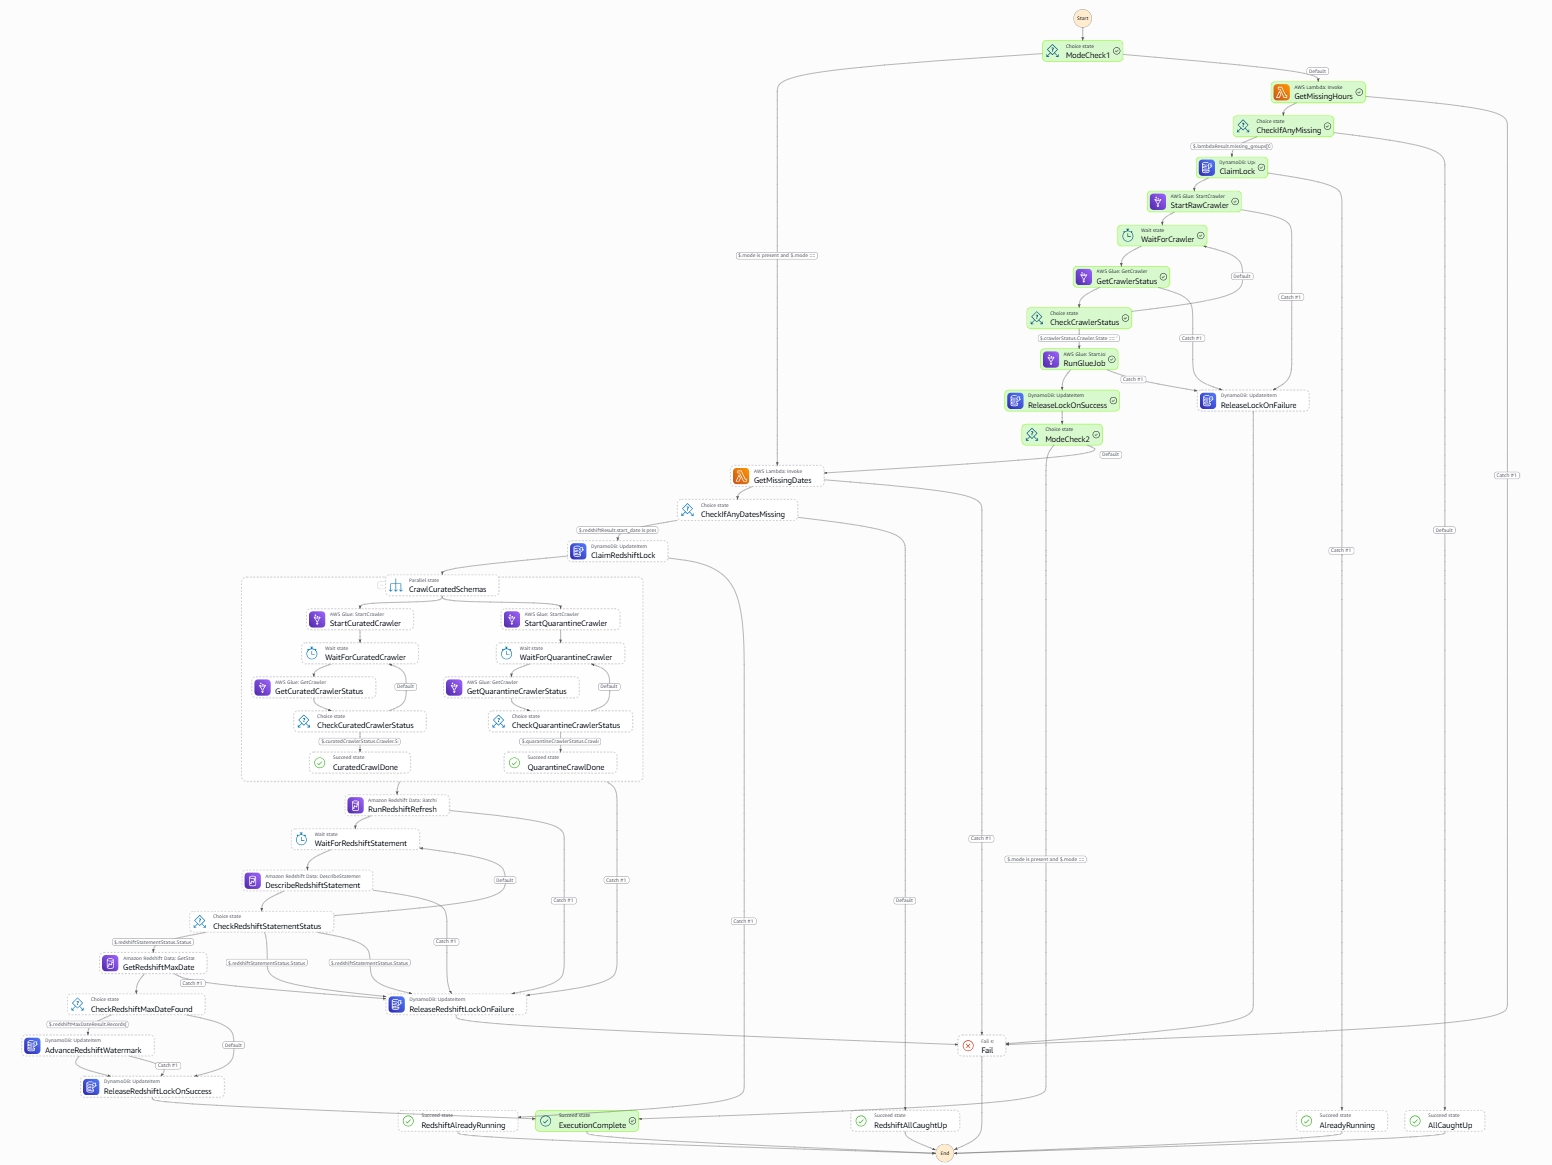
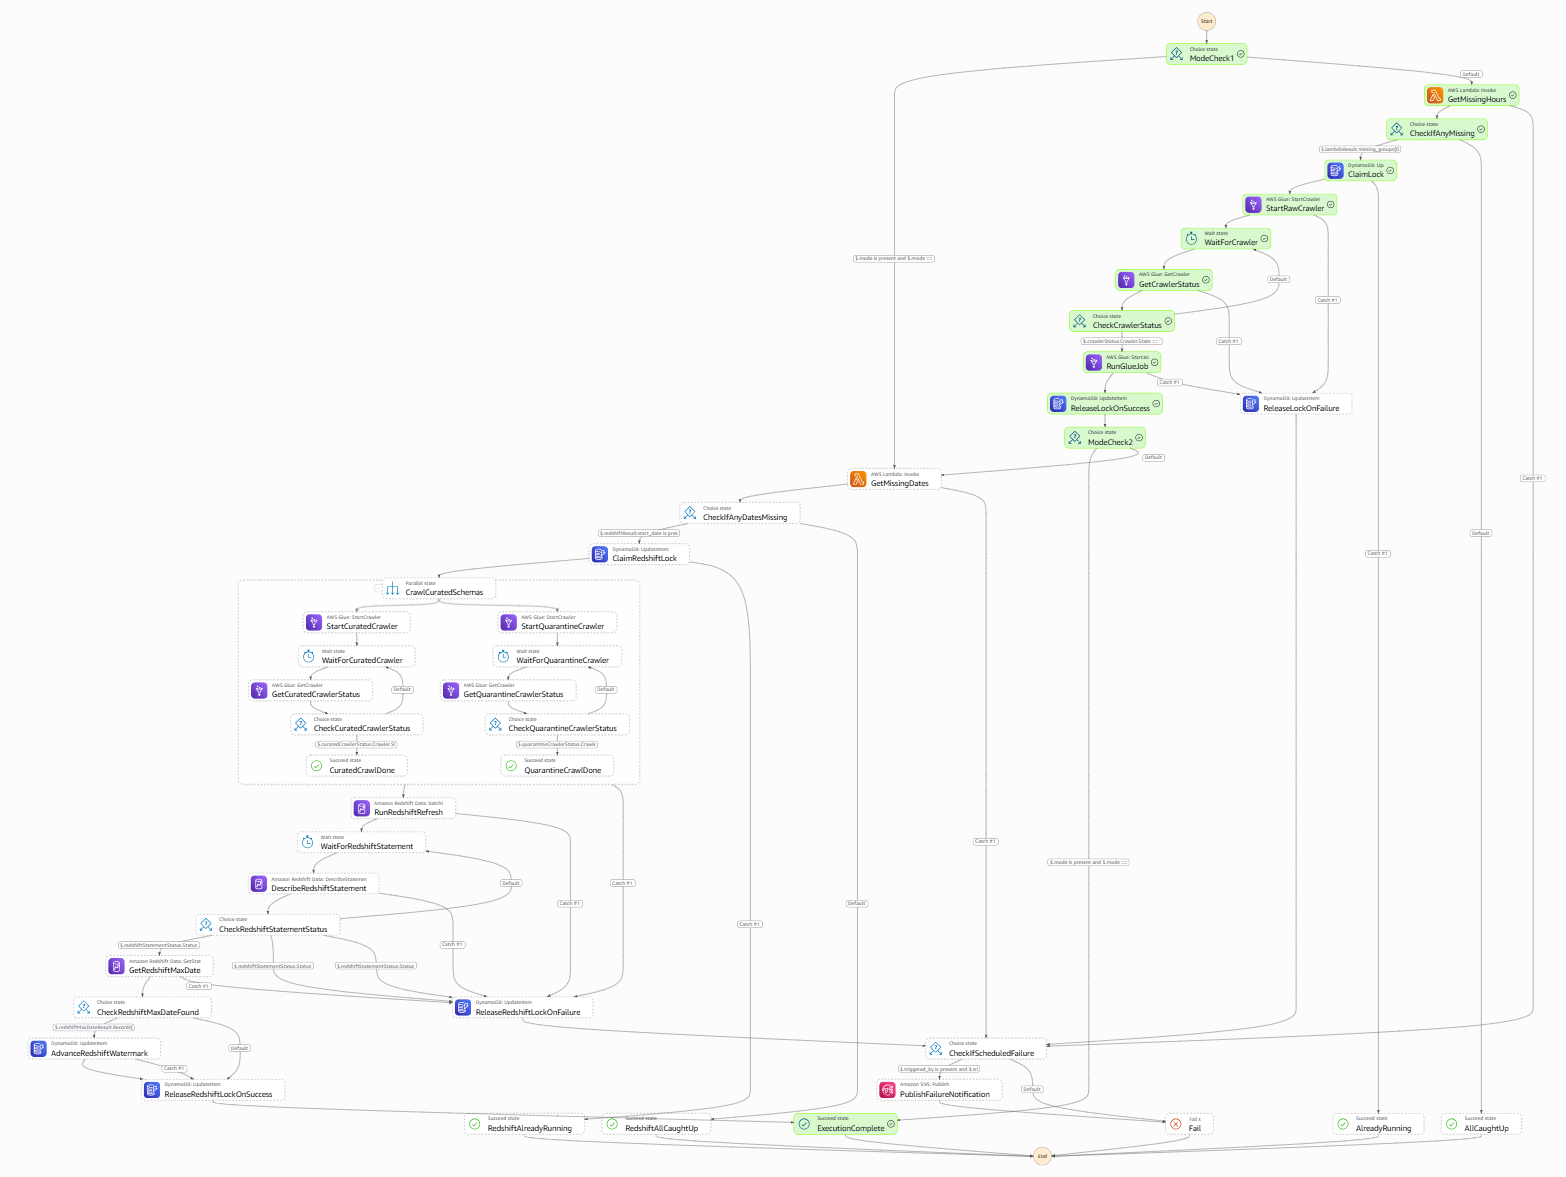
add pipeline failure notifications via SNS: a shared gate checks triggered_by=schedule before emailing, so real scheduled failures alert while manual test failures stay silent -- verified live with both cases (real email received/not received), plus a combined idempotency + multi-date forward-progre

diff --git a/docs/architecture-flow.md b/docs/architecture-flow.md
@@ -2,7 +2,7 @@
 
 The complete, state-by-state orchestration logic — every real state in `state_machines/sensor_etl.asl.json`, exactly as it exists in the deployed state machine. For the underlying data flow and component roles, see [`architecture.md`](architecture.md); for *why* things are built this way, see [`design-choices.md`](design-choices.md).
 
-31 top-level states in total (38 including the `Parallel` state's own internal branches).
+33 top-level states in total (40 including the `Parallel` state's own internal branches).
 
 ## The `mode` parameter
 
@@ -14,7 +14,7 @@ Every execution starts by evaluating `mode`, an optional field in the execution 
 | `"glue_only"` | Only `sensor_etl` — ends right after its lock releases |
 | `"redshift_only"` | Only `redshift_refresh` — skips `sensor_etl` entirely from the very first state |
 
-Both mode-check states use `And[mode IsPresent, mode==X]`, not a bare string comparison — a `Choice` state's `StringEquals` throws an uncatchable error if the field doesn't exist at all, which is exactly the shape of the real scheduler's trigger. This was a real bug caught via testing, not a defensive habit from the start.
+Both mode-check states use `And[mode IsPresent, mode==X]`, not a bare string comparison — a `Choice` state's `StringEquals` throws an uncatchable error if the field doesn't exist at all, which is exactly the shape of the real scheduler's trigger. This was a real bug caught via testing, not a defensive habit from the start. The same pattern is reused for `triggered_by`, below.
 
 ## The `backfill` parameter
 
@@ -25,6 +25,22 @@ Orthogonal to `mode` — a top-level sibling field, not nested inside it:
 ```
 
 Both `GetMissingHours` and `GetMissingDates` check for `backfill` first, before touching DynamoDB at all. When present, it bypasses the watermark-driven calendar math entirely and returns exactly the requested range — but the *same* forward-only guard downstream still decides whether either watermark actually advances, independent of what was requested. Two validation checks run before anything else: a reversed range (`end_date` before `start_date`) is rejected immediately, and any range spanning more than 90 days is rejected as a likely typo — both raise a clear error rather than silently proceeding.
+
+## The `triggered_by` parameter
+
+Also a top-level, optional field — but unlike `mode`/`backfill`, it's never read while an execution is doing real work. It's checked exactly once, only if an execution *fails*, to decide whether the failure is worth emailing about:
+
+```json
+{"mode": "full", "triggered_by": "schedule"}
+```
+
+Only the real EventBridge daily trigger sends this — confirmed directly against the live resource:
+```bash
+aws scheduler get-schedule --name pulsegrid-dev-sensor-etl-daily --query "Target.Input" --output text
+# {"mode":"full","triggered_by":"schedule"}
+```
+
+A manually-started execution (console or CLI) never includes it, so a manual test's failure stays silent by default — the same `And[IsPresent, StringEquals]` pattern as `ModeCheck1`/`ModeCheck2` decides this. Full mechanism, design rationale, and a real example: see [Failure notifications](#failure-notifications) below.
 
 ## Top-level flow
 
@@ -46,7 +62,7 @@ graph TD
 ```mermaid
 graph TD
     GMH[GetMissingHours] --> CIM{CheckIfAnyMissing}
-    GMH -.any failure.-> FAIL([Fail])
+    GMH -.any failure.-> CSF
     CIM -->|missing_groups empty| AC([AllCaughtUp])
     CIM -->|missing_groups0 present| CL[ClaimLock]
     CL -->|ConditionalCheckFailedException| AR([AlreadyRunning])
@@ -62,25 +78,28 @@ graph TD
     SRC -.any failure.-> RLF[ReleaseLockOnFailure]
     GCS -.any failure.-> RLF
     RGJ -.any failure.-> RLF
-    RLF --> FAIL
+    RLF --> CSF{CheckIfScheduledFailure}
+    CSF -->|triggered_by=schedule| PFN[PublishFailureNotification]
+    CSF -->|absent, or any other value| FAIL([Fail])
+    PFN --> FAIL
 ```
 
 ![A real mode=glue_only execution, fully successful end to end](images/architecture-flow-glue-section.png)
 *A real `mode=glue_only` execution — confirmed via the execution's own recorded input, not inferred from the graph.*
 
 Notes on specific states:
-- **`GetMissingHours`'s own failure** routes straight to `Fail`, never through `ReleaseLockOnFailure` — at that point in the flow, no lock has been claimed yet, so there's nothing to release. This is the same principle behind claiming the lock only once real work is confirmed, applied consistently to failure handling too.
+- **`GetMissingHours`'s own failure** routes to `CheckIfScheduledFailure` directly, never through `ReleaseLockOnFailure` — at that point in the flow, no lock has been claimed yet, so there's nothing to release. This is the same principle behind claiming the lock only once real work is confirmed, applied consistently to failure handling too.
 - **`ClaimLock`'s catch is deliberately narrow** — only `DynamoDB.ConditionalCheckFailedException`, not `States.ALL` like every other catch in this section. A genuine lock conflict routes to `AlreadyRunning`; any other failure at this state propagates unhandled, since a failed claim means nothing was ever actually acquired to release.
 - **`RunGlueJob`** carries its own `Retry` for `Glue.ConcurrentRunsExceededException` (3 attempts, 60s interval, 2.0 backoff) — a real, tested resilience mechanism for the case where a previous execution's Glue job is still finishing as a new one starts.
 - **`RunGlueJob`** passes the *whole* `missing_groups` array as one `--date_groups` argument — one Spark session handles every date in the batch, not one job run per date.
-- **`ReleaseLockOnFailure`** is reachable from three different states' `Catch` blocks, all converging on the same release-then-fail path — a lock is never left stuck regardless of which specific state fails.
+- **`CheckIfScheduledFailure`** is a single, shared gate — reached from both this section's failures *and* `redshift_refresh`'s (below).
 
 ## `redshift_refresh` section — full detail
 
 ```mermaid
 graph TD
     GMD[GetMissingDates] --> CIDM{CheckIfAnyDatesMissing}
-    GMD -.any failure.-> FAIL2([Fail])
+    GMD -.any failure.-> CSF2
     CIDM -->|no start_date| RAC([RedshiftAllCaughtUp])
     CIDM -->|start_date present| CRL[ClaimRedshiftLock]
     CRL -->|ConditionalCheckFailedException| RAR([RedshiftAlreadyRunning])
@@ -118,7 +137,10 @@ graph TD
     SQC -.any failure.-> RRLF
     RRR -.any failure.-> RRLF
     DRS -.any failure.-> RRLF
-    RRLF --> FAIL2
+    RRLF --> CSF2{CheckIfScheduledFailure}
+    CSF2 -->|triggered_by=schedule| PFN2[PublishFailureNotification]
+    CSF2 -->|absent, or any other value| FAIL2([Fail])
+    PFN2 --> FAIL2
 ```
 
 ![A real mode=redshift_only execution, fully successful end to end, including a genuine watermark advance](images/architecture-flow-redshift-section.png)
@@ -130,11 +152,35 @@ Notes on specific states:
 - **`GetRedshiftMaxDate`** reads the 11th statement's own sub-result via `SubStatements[10].Id` — `BatchExecuteStatement`'s parent ID can't retrieve results directly; each statement in the batch gets its own sub-statement ID.
 - **`CheckRedshiftMaxDateFound`** exists because `MAX(dt)` over zero matched rows returns SQL `NULL`, represented as `{"IsNull": true}` rather than an empty `StringValue` — checking for the key's presence correctly distinguishes a real date from this case.
 - **`AdvanceRedshiftWatermark`**'s `Catch` deliberately routes to `ReleaseRedshiftLockOnSuccess`, not `...OnFailure` — a regression-guard block (`ConditionalCheckFailedException`) is expected, correct behavior, never treated as a pipeline failure.
+- **`CheckIfScheduledFailure`/`PublishFailureNotification`** here (labeled `CSF2`/`PFN2` in the diagram above purely to avoid a naming clash within this one Mermaid code block) are the **same shared states** shown in the `sensor_etl` section's diagram — not a second copy. Both sections' failures converge on one gate.
 
 ## Poll-loop pattern, used three times
 
 The raw crawler, each of the two crawlers inside `CrawlCuratedSchemas`, and the Redshift statement check all use the identical shape: `Wait` → check status → `Choice` routing back to the same `Wait` state if not yet done. The Redshift version adds explicit `FAILED`/`ABORTED` branches — without them, a genuinely failed statement would loop on `Wait` forever, since only checking for the success status and treating everything else as "still running" doesn't account for terminal failure states.
 
+## Failure notifications
+
+Every failure route in both sections converges on one shared gate, `CheckIfScheduledFailure` (see [the `triggered_by` parameter](#the-triggered_by-parameter) above for the input field itself). This section covers the mechanism's internal design.
+
+**Why the notification message dumps the whole state via `States.JsonToString($)`, instead of referencing `$.error` directly:** `$.error` isn't guaranteed present on every path reaching this gate. `CheckRedshiftStatementStatus`'s `FAILED`/`ABORTED` branches route straight to `ReleaseRedshiftLockOnFailure` without ever passing through a `Catch` block — meaning no `$.error` gets populated in that specific case. Referencing an absent field directly would trip the exact same uncatchable-error class the `IsPresent` guards elsewhere in this file exist to prevent. Dumping the entire state sidesteps the question of what's present and gives strictly more debugging context, not less.
+
+A real example, from actual testing — a deliberately reversed `backfill` range, triggered with `triggered_by=schedule`:
+
+```
+Subject: PulseGrid pipeline failure
+
+PulseGrid scheduled execution failed.
+
+Execution: d8812599-a4d8-49b3-a66c-592df6604fe3
+
+Full state at failure:
+{"mode":"glue_only","triggered_by":"schedule","backfill":{"start_date":"2026-06-05","end_date":"2026-06-01"},"error":{"Error":"ValueError","Cause":"{\"errorMessage\":\"backfill end_date (2026-06-01) is before start_date (2026-06-05)\",\"errorType\":\"ValueError\", ...}}
+```
+
+The identical failure triggered without `triggered_by` produces no email at all — confirmed via the same test, run twice.
+
 ## Lock release is always unconditional, on every path
 
-Every route to `Fail` — in both sections — passes through a release state first (`ReleaseLockOnFailure` / `ReleaseRedshiftLockOnFailure`), *except* when the failure happens before any lock was ever claimed (`GetMissingHours`/`GetMissingDates`'s own failures, which route straight to `Fail`). Both release states also carry their own `Retry` block, specifically so a transient failure in the *release call itself* can't leave a lock permanently stuck — the one failure mode that would otherwise block every future execution indefinitely.
+Every failure — in both sections — passes through a release state first (`ReleaseLockOnFailure` / `ReleaseRedshiftLockOnFailure`), *except* when the failure happens before any lock was ever claimed (`GetMissingHours`/`GetMissingDates`'s own failures, which route straight to `CheckIfScheduledFailure`). Both release states also carry their own `Retry` block, specifically so a transient failure in the *release call itself* can't leave a lock permanently stuck.
+
+The notification gate sits strictly *after* both release states — never before, never instead of them. This is what makes the notification feature safe by construction: even a mistake in its own logic can't reintroduce a stuck lock, because by the time any execution reaches `CheckIfScheduledFailure`, its lock (if it ever held one) has already been safely released.

diff --git a/docs/setup.md b/docs/setup.md
@@ -8,6 +8,7 @@ One-time deployment instructions — getting from a fresh clone to a genuinely w
 - [Terraform](https://developer.hashicorp.com/terraform/downloads) — this project pins the AWS provider to `~> 5.0`
 - Python 3.10+
 - An AWS region — this project defaults to `ap-south-1` (`terraform/variables.tf`); change it there if you'd rather deploy elsewhere
+- An email address you can access, for pipeline failure notifications
 
 ## 1. Create a deploy IAM user
 
@@ -16,7 +17,7 @@ This project doesn't use one broad admin policy — the actual deploy permission
 - `pulsegrid-deploy-core` — S3, IAM role management, `PassRole` scoped to this project's own roles
 - `pulsegrid-deploy-analytics` — Glue, Athena
 - `pulsegrid-deploy-infra` — Redshift Serverless, its networking
-- `pulsegrid-deploy-orchestration` — DynamoDB, Lambda, Step Functions, Scheduler, Secrets Manager, Redshift Data API
+- `pulsegrid-deploy-orchestration` — DynamoDB, Lambda, Step Functions, Scheduler, Secrets Manager, Redshift Data API, SNS
 
 Create the user, attach all 4 policies, generate an access key, then:
 
@@ -37,11 +38,10 @@ Create `terraform/terraform.tfvars` — **never commit this file**, it's already
 ```hcl
 redshift_admin_password       = "<choose a real password>"
 redshift_refresh_svc_password = "<choose a different real password>"
+alert_email                   = "<your real email address>"
 ```
 
 **If you're deploying this to your own AWS account, not just reading it:** S3 bucket names are globally unique across *all* of AWS, not just your account. This project's buckets are named from `project_name`+`environment` (e.g. `pulsegrid-dev-raw`) — since the original names are already taken, you'll need to change `project_name` in `terraform/variables.tf` to something unique to you before `apply` will succeed.
-
-**Every resource name shown anywhere in this documentation set — bucket names, the DynamoDB table, Lambda function names, SQL examples — uses the default `project_name=pulsegrid`, `environment=dev`.** If you changed `project_name`, mentally substitute your own value everywhere you see `pulsegrid` in a command or resource name, in every doc, not just this one.
 
 ## 3. Before you apply — a real sequencing warning
 
@@ -60,9 +60,21 @@ terraform plan
 terraform apply
 ```
 
-This creates everything Terraform manages: S3 buckets, Glue crawlers and the ETL job, the Redshift Serverless namespace/workgroup, DynamoDB, all 3 Lambdas, the Step Functions state machine, Secrets Manager, and both EventBridge schedules.
+This creates everything Terraform manages: S3 buckets, Glue crawlers and the ETL job, the Redshift Serverless namespace/workgroup, DynamoDB, all 3 Lambdas, the Step Functions state machine, Secrets Manager, an SNS topic for failure alerts, and both EventBridge schedules.
 
-## 5. Manual Redshift setup — not Terraform-managed
+## 5. Confirm the SNS email subscription — a manual step Terraform can't finish for you
+
+Terraform can *request* the email subscription, but AWS requires a human to click the confirmation link that gets emailed — this can't be automated. Check the inbox for `alert_email` (including spam — this is the single most common place it ends up) for an email from AWS Notifications, and click **Confirm subscription**.
+
+Verify it actually took, rather than trust the click alone:
+
+```bash
+aws sns list-subscriptions-by-topic --topic-arn <topic-arn-from-terraform-output>
+```
+
+`"SubscriptionArn": "PendingConfirmation"` means it's still unconfirmed. A real ARN in that field means it's genuinely active.
+
+## 6. Manual Redshift setup — not Terraform-managed
 
 Three things Terraform deliberately doesn't own, since they're database-internal objects, not AWS resources. Run these in order, in Redshift Query Editor v2, connected as the admin user:
 
@@ -85,10 +97,11 @@ GRANT SELECT, INSERT, DELETE ON
 
 This step is easy to miss entirely, since `terraform apply` succeeding gives no indication it's still required — but without it, `redshift_refresh` will fail on its very first real run (or every scheduled run, if you skipped the warning in step 3).
 
-## 6. Confirm the deployment
+## 7. Confirm the deployment
 
 - `terraform apply` completed with no errors
 - The 5 KPI tables exist and are queryable (even empty) in Redshift
 - `aws lambda invoke --function-name <project>-<env>-generate-hourly output.json` runs successfully and writes a real file to the `raw` bucket
 - `pip install -e ".[dev]" && pytest tests/ -v` passes locally (21 tests)
+- The SNS subscription shows a real ARN, not `PendingConfirmation` (step 5)
 - If you disabled the schedules in step 3, re-enable both now (`state = "ENABLED"`, `terraform apply` again)

diff --git a/docs/architecture.md b/docs/architecture.md
@@ -36,7 +36,7 @@ The complete inventory of every AWS component in PulseGrid, what it does, and ho
 
 | Component | Role |
 |---|---|
-| Step Functions state machine | One combined definition covering both `sensor_etl` and `redshift_refresh`, gated by a `mode` parameter and an independent `backfill` parameter. |
+| Step Functions state machine | One combined definition covering both `sensor_etl` and `redshift_refresh`, gated by a `mode` parameter and an independent `backfill` parameter. Every failure path converges on a shared gate that emails a failure notification, but only for the real scheduled trigger — see [`architecture-flow.md`](architecture-flow.md#failure-notifications). |
 | EventBridge Scheduler — `generate_hourly` | Fires hourly, on the hour (`cron(0 * * * ? *)`, UTC). |
 | EventBridge Scheduler — `sensor_etl_daily` | Fires daily at `00:30 UTC` — 30 minutes after `generate_hourly`'s midnight run closes out the previous day, so a full day is always ready. Drives the *entire* combined state machine (both pipeline sections) via `mode=full`. |
 
@@ -51,6 +51,7 @@ The complete inventory of every AWS component in PulseGrid, what it does, and ho
 | Component | Role |
 |---|---|
 | Secrets Manager secret | Holds `redshift_refresh_svc`'s database credentials for the Redshift Data API. |
+| SNS topic | One topic, one email subscription, for pipeline failure notifications. Requires a one-time manual confirmation click after deployment — see [`setup.md`](setup.md). |
 | IAM roles (one per component) | Every Lambda, the Glue job, and the state machine's own execution role each get a distinct, narrowly-scoped role — see [Security model](#security-model) below. |
 
 ### Analytics (verification tool, not part of the live pipeline)
@@ -136,4 +137,4 @@ Single table, `pipeline_id` as partition key. Two items exist, one per pipeline:
 
 ## Security model
 
-Every component gets its **own** IAM role, scoped to exactly what it needs — never a shared or broad role. A few concrete examples: `generate_hourly`'s role has `s3:PutObject` on `raw` only — no read, list, or delete. `missing_dates`' role has `dynamodb:GetItem` only — it never writes. The Glue job's role has `dynamodb:UpdateItem` scoped to the one watermarks table, nothing broader. This pattern holds throughout — no component can do more than its own specific job requires.
+Every component gets its **own** IAM role, scoped to exactly what it needs — never a shared or broad role. A few concrete examples: `generate_hourly`'s role has `s3:PutObject` on `raw` only — no read, list, or delete. `missing_dates`' role has `dynamodb:GetItem` only — it never writes. The Glue job's role has `dynamodb:UpdateItem` scoped to the one watermarks table, nothing broader. The state machine's own execution role has `sns:Publish` scoped to exactly the one failure-notification topic — nothing broader, and it's a distinct grant from the *deploy user's* own SNS permissions (topic creation, subscription management), which exist only to let Terraform provision the topic in the first place, never to publish to it. This pattern holds throughout — no component can do more than its own specific job requires.

diff --git a/README.md b/README.md
@@ -41,7 +41,7 @@ Full rationale, trade-offs, and real debugging stories: [`docs/design-choices.md
 
 | Layer | Tools |
 |---|---|
-| Orchestration | AWS Step Functions, EventBridge Scheduler |
+| Orchestration | AWS Step Functions, EventBridge Scheduler, SNS (failure notifications) |
 | Compute | AWS Glue (PySpark), AWS Lambda |
 | Storage | S3, Amazon Redshift Serverless (+ Spectrum) |
 | Coordination | DynamoDB (distributed locks + watermarks) |
@@ -75,7 +75,7 @@ Full rationale, trade-offs, and real debugging stories: [`docs/design-choices.md
 
 ## Running it yourself
 
-**Deploying to your own AWS account requires a few one-time changes first — bucket names, credentials, a manual database user — all covered precisely in [`docs/setup.md`](docs/setup.md). Start there before running the commands below.**
+**Deploying to your own AWS account requires a few one-time changes first — bucket names, credentials, a manual database user, and confirming an email subscription — all covered precisely in [`docs/setup.md`](docs/setup.md). Start there before running the commands below.**
 
 ```bash
 cd terraform
